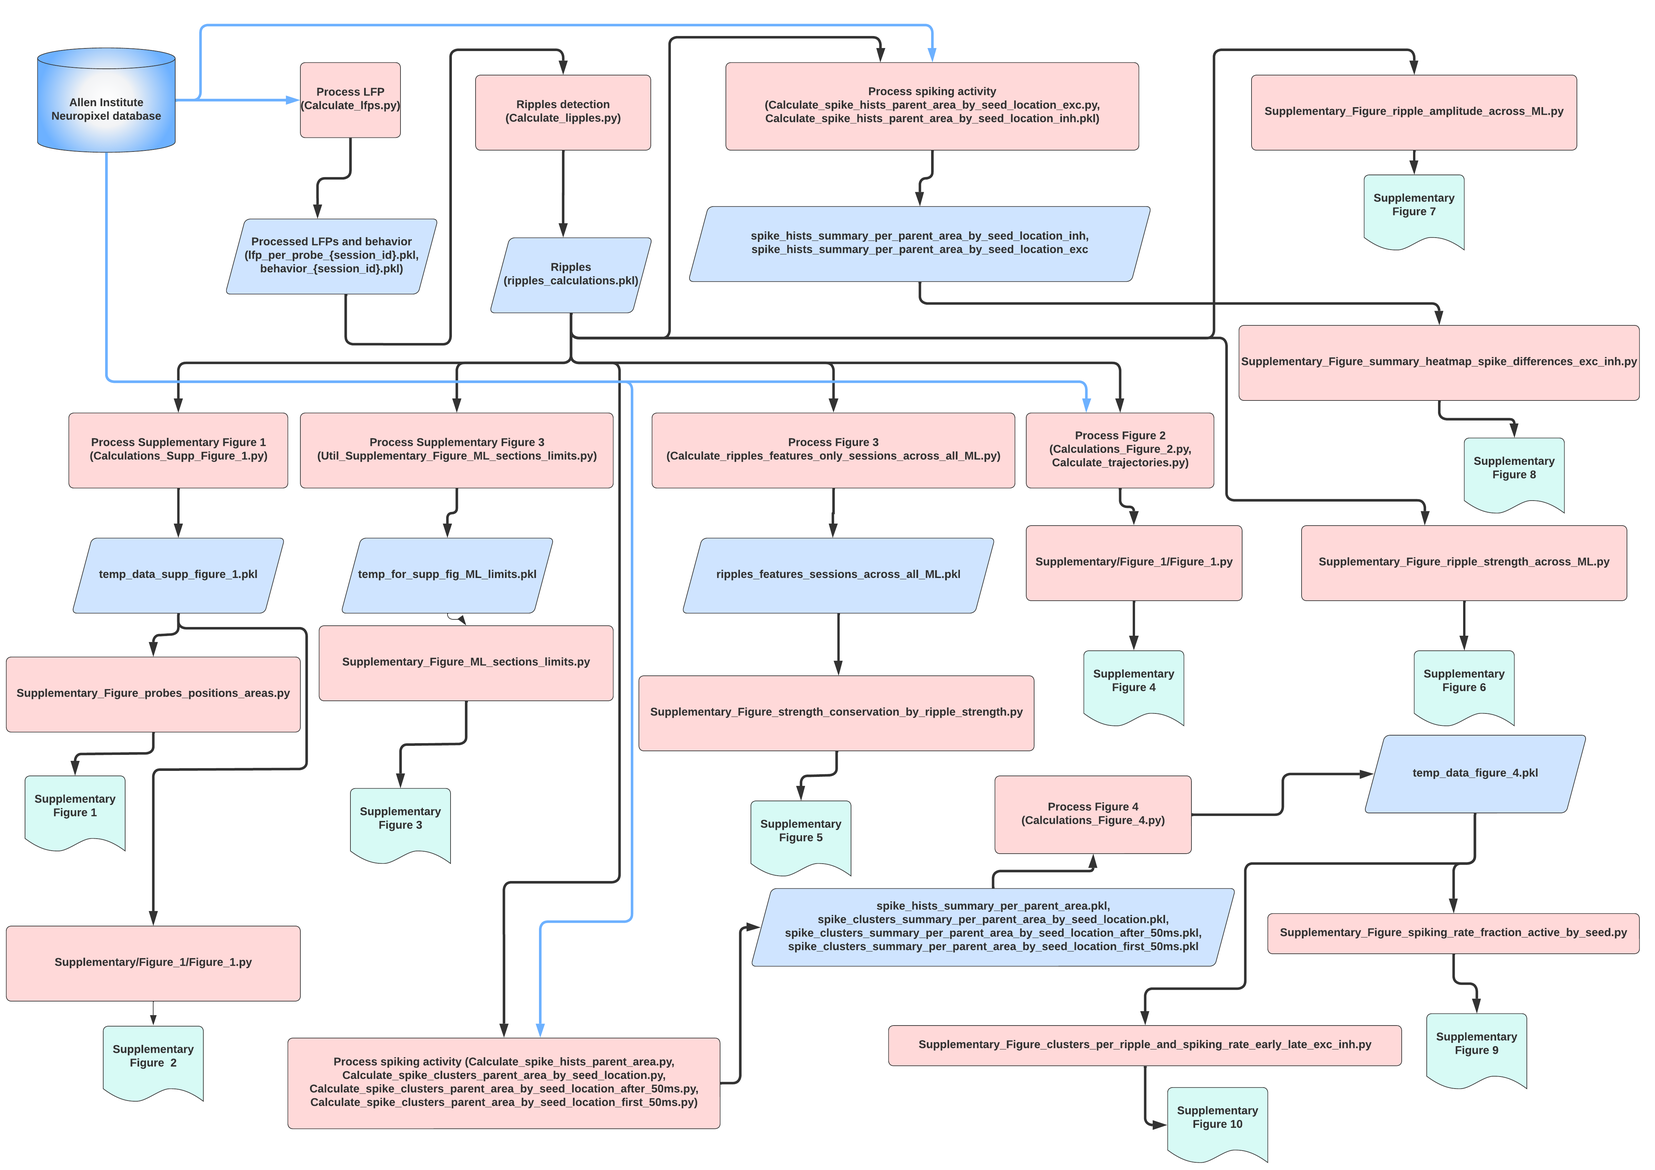
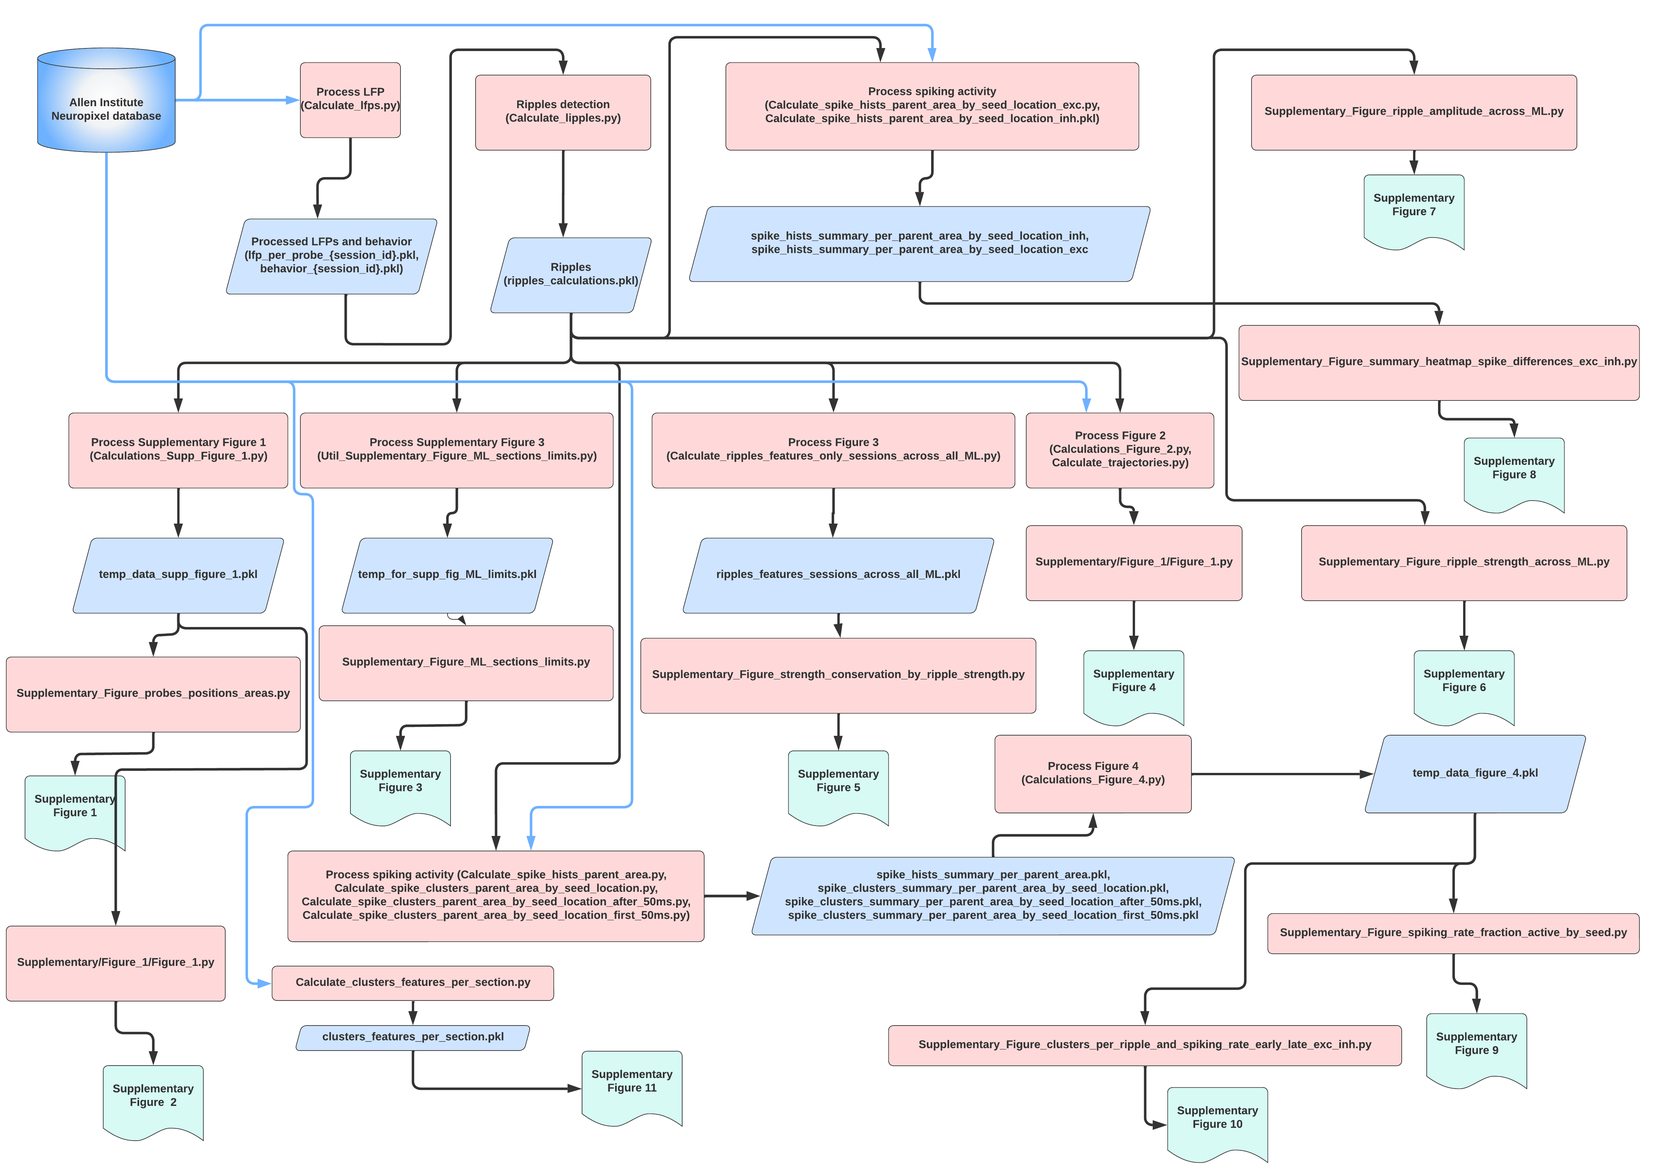
squash

Changed region(s): [[0.0311, 0.5285, 0.7453, 0.9638], [0.0621, 0.8705, 0.1242, 0.9949], [0.0621, 0.6529, 0.0932, 0.684]]

diff --git a/Figures/Supplementary/Supplementary_Figure_units_per_hippocampal_section.py b/Figures/Supplementary/Supplementary_Figure_units_per_hippocampal_section.py
@@ -1,0 +1,106 @@
+from Utils.Settings import output_folder_calculations, output_folder_supplementary, var_thr
+import dill
+import pingouin as pg
+from scipy.stats import ks_2samp
+import matplotlib.pyplot as plt
+import seaborn as sns
+from Utils.Style import palette_ML
+import pylustrator
+import Utils.Style
+
+with open(f'{output_folder_calculations}/clusters_features_per_section.pkl', 'rb') as f:
+    total_clusters = dill.load(f)
+
+total_units = total_clusters[(total_clusters["waveform_PT_ratio"]<5)&(total_clusters["isi_violations"]<.5)&(total_clusters["amplitude_cutoff"]<.1)&(total_clusters["presence_ratio"]>.1)]
+
+total_units = total_units.rename(columns={"waveform_duration": "Waveform duration", "firing_rate":"Firing rate", "waveform_amplitude":"Waveform amplitude",
+                                          "waveform_repolarization_slope":"Waveform repolarization slope", "waveform_recovery_slope":"Waveform recovery slope",
+                                          "waveform_PT_ratio":"Waveform PT ratio"} )
+
+def plot_distributions(ax0, ax1, param, legend):
+    print(param)
+    sns.kdeplot(ax=ax0, palette=palette_ML, data=total_units.query("Location=='Medial'| Location=='Lateral'"), x=param, hue="Location", common_norm=False)
+    sns.ecdfplot(ax=ax1,  palette=palette_ML, data=total_units.query("Location=='Medial'| Location=='Lateral'"), x=param, hue="Location")
+    norm_test = pg.normality(data=total_units, dv=param, group="Location")
+    if norm_test["normal"].all():
+        p_val = pg.ttest(total_units[total_units["Location"] == "Medial"][param],
+               total_units[total_units["Location"] == "Lateral"][param])["p-val"][0]
+        print("ttest: ", p_val)
+
+    else:
+        p_val = pg.mwu(total_units[total_units["Location"]=="Medial"][param], total_units[total_units["Location"]=="Lateral"][param])["p-val"][0]
+        cles = pg.mwu(total_units[total_units["Location"]=="Medial"][param], total_units[total_units["Location"]=="Lateral"][param])["CLES"][0]
+        print("mwu p-val and CLES: ", p_val, cles)
+
+    if p_val<.05:
+        ax0.text(.6, .7, "*",
+                    transform=ax0.transAxes,
+                    fontsize=15, ha='center', va='center');
+
+    p_val_ks = ks_2samp(total_units[total_units["Location"] == "Medial"][param],
+             total_units[total_units["Location"] == "Lateral"][param])[1]
+
+    print("ks: p_val_ks")
+    if p_val_ks<.05:
+        ax1.text(.6, .7, "*",
+                    transform=ax1.transAxes,
+                    fontsize=15, ha='center', va='center');
+
+    if legend==False:
+        ax0.get_legend().remove()
+        ax1.get_legend().remove()
+
+#pylustrator.start()
+
+fig, ax = plt.subplots(6, 2, figsize=(5,8))
+param="Waveform duration"
+ax0 = ax[0,0]
+ax1 = ax[0,1]
+legend = True
+plot_distributions(ax0, ax1, param, legend)
+param="Firing rate"
+ax0 = ax[1,0]
+ax1 = ax[1,1]
+legend = False
+plot_distributions(ax0, ax1, param, legend)
+param="Waveform amplitude"
+ax0 = ax[2,0]
+ax1 = ax[2,1]
+plot_distributions(ax0, ax1, param, legend)
+param="Waveform repolarization slope"
+ax0 = ax[3,0]
+ax1 = ax[3,1]
+plot_distributions(ax0, ax1, param, legend)
+param="Waveform recovery slope"
+ax0 = ax[4,0]
+ax1 = ax[4,1]
+plot_distributions(ax0, ax1, param, legend)
+ax[4,0].set_xlim(-.5,.1)
+ax[4,1].set_xlim(-.5,.1)
+param="Waveform PT ratio"
+ax0 = ax[5,0]
+ax1 = ax[5,1]
+plot_distributions(ax0, ax1, param, legend)
+ax[5,0].set_xlim(0,1)
+ax[5,1].set_xlim(0,1)
+
+fig.tight_layout()
+
+#% start: automatic generated code from pylustrator
+plt.figure(1).ax_dict = {ax.get_label(): ax for ax in plt.figure(1).axes}
+import matplotlib as mpl
+plt.figure(1).text(0.5, 0.5, 'New Text', transform=plt.figure(1).transFigure)  # id=plt.figure(1).texts[0].new
+plt.figure(1).texts[0].set_position([0.036000, 0.981250])
+plt.figure(1).texts[0].set_text("A")
+plt.figure(1).texts[0].set_weight("bold")
+plt.figure(1).text(0.5, 0.5, 'New Text', transform=plt.figure(1).transFigure)  # id=plt.figure(1).texts[1].new
+plt.figure(1).texts[1].set_position([0.512000, 0.981250])
+plt.figure(1).texts[1].set_text("B")
+plt.figure(1).texts[1].set_weight("bold")
+#% end: automatic generated code from pylustrator
+
+#plt.show()
+plt.savefig(f"{output_folder_supplementary}/Supplementary_Figure_11", dpi=300)
+
+
+

diff --git a/Utils/Legends_supplementary_variables.py b/Utils/Legends_supplementary_variables.py
@@ -2,6 +2,7 @@ from Utils.Settings import output_folder_figures_calculations, output_folder_cal
 import pandas as pd
 import dill
 import pingouin as pg
+from scipy.stats import ks_2samp
 
 # variables supplementary figure 1
 with open(f"{output_folder_figures_calculations}/temp_data_supp_figure_1.pkl", 'rb') as f:
@@ -48,3 +49,61 @@ data_sup_9_spiking_rate = pd.melt(tot_summary[["Lateral seed", "Medial seed", "S
                value_name='Spiking rate per 10 ms').groupby(["Session id", "Location seed"]).mean().reset_index()
 
 from Figures.Supplementary.Supplementary_Figure_spiking_rate_fraction_active_by_seed import ttest_clus_per_ripple, ttest_late_spiking
+
+
+with open(f'{output_folder_calculations}/clusters_features_per_section.pkl', 'rb') as f:
+    total_clusters = dill.load(f)
+
+total_units = total_clusters[(total_clusters["waveform_PT_ratio"]<5)&(total_clusters["isi_violations"]<.5)&(total_clusters["amplitude_cutoff"]<.1)&(total_clusters["presence_ratio"]>.1)]
+
+
+
+param="waveform_duration"
+p_val_wav_dur = pg.mwu(total_units[total_units["Location"] == "Medial"][param],
+       total_units[total_units["Location"] == "Lateral"][param])["p-val"][0]
+
+param="waveform_recovery_slope"
+p_val_wav_rec_slope = pg.mwu(total_units[total_units["Location"] == "Medial"][param],
+       total_units[total_units["Location"] == "Lateral"][param])["p-val"][0]
+
+param="waveform_PT_ratio"
+p_val_wav_PT_ratio = pg.mwu(total_units[total_units["Location"] == "Medial"][param],
+       total_units[total_units["Location"] == "Lateral"][param])["p-val"][0]
+
+param="waveform_repolarization_slope"
+p_val_wav_repolarization_slope = pg.mwu(total_units[total_units["Location"] == "Medial"][param],
+       total_units[total_units["Location"] == "Lateral"][param])["p-val"][0]
+
+param="waveform_amplitude"
+p_val_wav_amp = pg.mwu(total_units[total_units["Location"] == "Medial"][param],
+       total_units[total_units["Location"] == "Lateral"][param])["p-val"][0]
+
+param="firing_rate"
+p_val_fir_rate = pg.mwu(total_units[total_units["Location"] == "Medial"][param],
+       total_units[total_units["Location"] == "Lateral"][param])["p-val"][0]
+
+
+
+param="waveform_duration"
+p_val_ks_wav_dur = ks_2samp(total_units[total_units["Location"] == "Medial"][param],
+             total_units[total_units["Location"] == "Lateral"][param])[1]
+
+param="waveform_recovery_slope"
+p_val_ks_wav_rec_slope = ks_2samp(total_units[total_units["Location"] == "Medial"][param],
+             total_units[total_units["Location"] == "Lateral"][param])[1]
+
+param="waveform_PT_ratio"
+p_val_ks_wav_PT_ratio = ks_2samp(total_units[total_units["Location"] == "Medial"][param],
+             total_units[total_units["Location"] == "Lateral"][param])[1]
+
+param="waveform_repolarization_slope"
+p_val_ks_wav_repolarization_slope = ks_2samp(total_units[total_units["Location"] == "Medial"][param],
+             total_units[total_units["Location"] == "Lateral"][param])[1]
+
+param="waveform_amplitude"
+p_val_ks_wav_amp = ks_2samp(total_units[total_units["Location"] == "Medial"][param],
+             total_units[total_units["Location"] == "Lateral"][param])[1]
+
+param="firing_rate"
+p_val_ks_fir_rate = ks_2samp(total_units[total_units["Location"] == "Medial"][param],
+             total_units[total_units["Location"] == "Lateral"][param])[1]

diff --git a/Utils/Results_variables.py b/Utils/Results_variables.py
@@ -178,3 +178,54 @@ ripples_number_by_section[ripples_number_by_section.index==ripples_number_by_sec
 
 p_value_ripples_per_section = pg.kruskal(ripples_number_by_section[ripples_number_by_section.index==ripples_number_by_section["Reference"]],
                                          dv="Count detected ripples", between="Reference")["p-unc"]
+
+
+
+with open(f'{output_folder_calculations}/clusters_features_per_section.pkl', 'rb') as f:
+    total_clusters = dill.load(f)
+
+total_units = total_clusters[(total_clusters["waveform_PT_ratio"]<5)&(total_clusters["isi_violations"]<.5)&(total_clusters["amplitude_cutoff"]<.1)&(total_clusters["presence_ratio"]>.1)]
+
+def count_clusters(group):
+    _ = pd.Series([group.query("Location=='Medial'").shape[0] / group.query("Location=='Medial'")["probe_id"].unique().shape[0],
+                      group.query("Location=='Lateral'").shape[0] /
+                      group.query("Location=='Lateral'")["probe_id"].unique().shape[0]])
+    _.index=["Medial", "Lateral"]
+    return _
+
+normalized_cluster_count_per_probe = total_clusters.query("Location=='Medial'| Location=='Lateral'").groupby("session_id").apply(lambda group: count_clusters(group))
+pg.normality(normalized_cluster_count_per_probe)
+test_cluster_count = pg.mwu(normalized_cluster_count_per_probe["Medial"], normalized_cluster_count_per_probe["Lateral"])["p-val"][0]
+
+def check_waveform_duration(group):
+    _ = pd.Series([group.query("Location=='Medial'")["waveform_duration"].mean(),
+                      group.query("Location=='Lateral'")["waveform_duration"].mean() ])
+    _.index=["Medial", "Lateral"]
+    return _
+
+waveform_duration_per_session = total_units.query("Location=='Medial'| Location=='Lateral'").groupby("session_id").apply(lambda group: check_waveform_duration(group))
+waveform_duration_per_session.mean()
+waveform_duration_per_session.sem()
+pg.normality(waveform_duration_per_session)
+pg.ttest(waveform_duration_per_session["Medial"], waveform_duration_per_session["Lateral"])
+
+def count_clusters_type(group):
+    _ = pd.Series([group[(group["Location"] == "Medial") & (group["Neuron type"]=="Putative exc")].shape[0] /\
+                   group[(group["Location"] == "Medial") & (group["Neuron type"] == "Putative inh")].shape[0],
+                   group[(group["Location"] == "Lateral") & (group["Neuron type"] == "Putative exc")].shape[0] /\
+                   group[(group["Location"] == "Lateral") & (group["Neuron type"] == "Putative inh")].shape[0]
+                   ])
+    _.index=["Medial ratio (exc/inh)", "Lateral ratio (exc/inh)"]
+    return _
+
+ratio_exc_inh_per_session=total_clusters.query("Location=='Medial'| Location=='Lateral'").groupby("session_id").apply(lambda group: count_clusters_type(group))
+ratio_exc_inh_per_session.mean()
+
+
+
+for param in total_clusters.columns:
+    try:
+        _ = pg.ttest(total_units.query("Location=='Medial'")[param], total_units.query("Location=='Lateral'")[param])["p-val"][0]
+        print(param, ": ", _)
+    except:
+        pass

diff --git a/Calculations/Calculate_clusters_features_per_section.py b/Calculations/Calculate_clusters_features_per_section.py
@@ -1,0 +1,76 @@
+import dill
+import numpy as np
+import pandas as pd
+from allensdk.brain_observatory.ecephys.ecephys_project_cache import EcephysProjectCache
+from tqdm import tqdm
+from Utils.Settings import output_folder_calculations, neuropixel_dataset, var_thr
+from Utils.Utils import acronym_to_main_area
+
+manifest_path = f"{neuropixel_dataset}/manifest.json"
+
+cache = EcephysProjectCache.from_warehouse(manifest=manifest_path)
+
+sessions = cache.get_session_table()
+
+with open(f'{output_folder_calculations}/clean_ripples_calculations.pkl', 'rb') as f:
+    ripples_calcs = dill.load(f)
+
+
+input_rip = []
+for session_id in ripples_calcs.keys():
+    ripples = ripples_calcs[session_id][3].copy()
+    ripples = ripples.groupby("Probe number-area").filter(lambda group: group["∫Ripple"].var() > var_thr)
+    input_rip.append(ripples.groupby("Probe number-area").mean()["L-R (µm)"])
+
+lr_space = pd.concat(input_rip)
+
+medial_lim = lr_space.quantile(.33333)
+lateral_lim = lr_space.quantile(.666666)
+center = lr_space.median()
+medial_lim_lm = medial_lim - 5691.510009765625
+lateral_lim_lm = lateral_lim - 5691.510009765625
+center_lm = center - 5691.510009765625
+
+out = []
+for session_id in tqdm(ripples_calcs.keys()):
+    ripples = ripples_calcs[session_id][3].copy()
+
+    sel_probe = ripples_calcs[session_id][5]
+
+    if ripples[ripples['Probe number'] == sel_probe].shape[0] < 1000:
+        continue
+
+    if np.any(ripples["L-R (µm)"].unique() < medial_lim) & np.any(ripples["L-R (µm)"].unique() > lateral_lim):
+        print(sum(ripples["L-R (µm)"].unique() < medial_lim), sum(ripples["L-R (µm)"].unique() > lateral_lim))
+        session = cache.get_session_data(session_id,  amplitude_cutoff_maximum = np.inf, presence_ratio_minimum = -np.inf, isi_violations_maximum = np.inf)  # , amplitude_cutoff_maximum = np.inf, presence_ratio_minimum = -np.inf, isi_violations_maximum = np.inf)
+
+        units = session.units
+        units["parent area"] = units["ecephys_structure_acronym"].apply(lambda area: acronym_to_main_area(area))
+        units["session_id"] = session_id
+        out.append(units[units["parent area"]=="HPF"])
+
+
+total_units = pd.concat(out)
+
+def l_r_classifier(row):
+    if row["left_right_ccf_coordinate"] < medial_lim:
+        v = "Medial"
+    elif row["left_right_ccf_coordinate"] > lateral_lim:
+        v = "Lateral"
+    else:
+        v = "Central"
+    return v
+
+total_units["Location"] = total_units.apply(l_r_classifier, axis=1)
+
+def neuron_classifier(row):
+    if row["waveform_duration"] < .4:
+        v = "Putative inh"
+    elif row["waveform_duration"] >= .4:
+        v = "Putative exc"
+    return v
+
+total_units["Neuron type"] = total_units.apply(neuron_classifier, axis=1)
+
+with open(f"{output_folder_calculations}/clusters_features_per_section.pkl", "wb") as fp:
+    dill.dump(total_units, fp)

diff --git a/Manuscript/discussion.py b/Manuscript/discussion.py
@@ -23,9 +23,10 @@ discussion = "Our work shows for the first time that strong ripples propagates d
              "towards the septal pole retaining its strong status (top 10%). Conversely strong ripples generated in the septal pole have a sizable chance of " \
              "propagate longitudinally and still be in the top 10% in terms of ripple strength. Ripples generated in the septal pole and in the " \
              "intermediate hippocampus have a significantly different ability of engaging the hippocampal networks in the 50-120 ms window " \
-             "post ripple start, ripples generated in the septal pole engage more neurons, both excitatory and inhibitory, and, moreover, " \
+             "post ripple start, ripples generated in the septal pole activate more neurons, both excitatory and inhibitory, and, moreover, " \
              "can elicit an higher spiking rate per neuron. This is reflected by the fact that the position on the longitudinal axis explains " \
-             f"{r_common*100}% and {r_strong*100}% of the variability in ripple duration in common and strong ripples respectively." \
+             f"{r_common*100}% and {r_strong*100}% of the variability in ripple duration in common and strong ripples respectively. Consistenly, the" \
+             "temporal hippocampus has been shown to produce shorter ripples booth in awake and sleep {Sosa, 2020 #1154}." \
              "Long duration ripples has been shown to be of particular importance in situations of " \
              "high-memory demand {Fernández-Ruiz, 2019 #1121}, previous studies highlighted " \
              "the role of septal hippocampus in memory tasks and information processing {Hock, 1998 #1122;Moser, 1993 #1123;Moser, 1995 #1124;Steffenach, 2005 #1128;" \
@@ -33,5 +34,5 @@ discussion = "Our work shows for the first time that strong ripples propagates d
              "Ripple generation seems to be homogeneous across the hippocampal longitudinal axis {Patel, 2013 #1133}. " \
              "Our results can explain the specific role of septal hippocampus in memory tasks with its ability of generating particularly long" \
              "ripples that are able to strongly engage networks in the entire top half of the hippocampal formation for an extended time. What " \
-             "is the reason that enables the septal pole to generate longer ripples? We can speculate that the different input connectivity might play a role. " \
+             "is the reason that enables the septal pole to generate longer ripples? We can speculate that the different neuromodulatory input might play a role. " \
              ""

diff --git a/Calculations/Calculations_Figure_4.py b/Calculations/Calculations_Figure_4.py
@@ -6,7 +6,7 @@ from allensdk.brain_observatory.ecephys.ecephys_project_cache import EcephysProj
 from scipy.stats import zscore
 from sklearn.preprocessing import MinMaxScaler
 from Utils.Settings import var_thr, neuropixel_dataset, output_folder_figures_calculations, output_folder_calculations, \
-    output_folder_processed_lfps, root_github_repo
+    output_folder_processed_lfps, root_github_repo, waveform_dur_thr
 from Utils.Utils import find_ripples_clusters_new, get_ML_limits
 from Utils.Utils import spike_summary, clean_ripples_calculations, acronym_to_main_area
 from tqdm import tqdm
@@ -29,7 +29,7 @@ def consolidate_spiking(spike_clusters, kind):
         cluster_id = [q[0] for q in spike_clusters[(session_id, 'HPF', 'central')][1][0]]
 
         spiking_rate_table_medial_seed = pd.DataFrame(spike_rate, columns=pd.MultiIndex.from_arrays(
-            [(units.loc[cluster_id, "waveform_duration"] < .4).map(
+            [(units.loc[cluster_id, "waveform_duration"] < waveform_dur_thr).map(
             {False: "Putative exc", True: "Putative inh"}), cluster_id], names=["Neuron type", "Cluster id"]))
 
         spiking_rate_table_medial_seed = spiking_rate_table_medial_seed.loc[:,
@@ -42,7 +42,7 @@ def consolidate_spiking(spike_clusters, kind):
         cluster_id = [q[0] for q in spike_clusters[(session_id, 'HPF', 'central')][2][0]]
 
         spiking_rate_table_lateral_seed = pd.DataFrame(spike_rate, columns=pd.MultiIndex.from_arrays(
-            [(units.loc[cluster_id, "waveform_duration"] < .4).map(
+            [(units.loc[cluster_id, "waveform_duration"] < waveform_dur_thr).map(
             {False: "Putative exc", True: "Putative inh"}), cluster_id], names=["Neuron type", "Cluster id"]))
         spiking_rate_table_lateral_seed = spiking_rate_table_lateral_seed.loc[:,
                                           (spiking_rate_table_lateral_seed != 0).any(axis=0)] # delete cluster with always zero spikes

diff --git a/Figures/legends_supplementary.py b/Figures/legends_supplementary.py
@@ -67,5 +67,15 @@ legends_supplementary = {
       "(A) Average spiking rate in early (left) and late (right) phase post-ripple start grouped by ripple seed location and putative neuron identity. "
       "Asterisks mean p<0.05, ANOVA with pairwise Tukey post-hoc test. "
       "(B) Fraction of active neurons per ripple in early (left) and late (right) phase post-ripple start grouped by ripple "
-      "seed location and putative neuron identity. Asterisks mean p < 0.05, ANOVA with pairwise Tukey post-hoc test."
+      "seed location and putative neuron identity. Asterisks mean p < 0.05, ANOVA with pairwise Tukey post-hoc test.",
+
+"Supplementary Figure 11. Units features in medial and lateral sections":
+      f"(A) Kernel density estimate plot of waveform duration (p-value={'{:.2e}'.format(p_val_wav_dur)}), firing rate (p-value={'{:.2e}'.format(p_val_fir_rate)}), "
+      f"waveform amplitude (p-value={'{:.2e}'.format(p_val_wav_amp)}), waveform repolarization slope (p-value={'{:.2e}'.format(p_val_wav_repolarization_slope)}), "
+      f"waveform recovery slope (p-value={'{:.2e}'.format(p_val_wav_rec_slope)}) and waveform peak-through ratio (p-value={'{:.2e}'.format(p_val_wav_PT_ratio)}) grouped by hippocampal section."
+      "Asterisks mean p<0.05, Mann-Whitney U test. "
+      f"(B) Cumulative distribution plot of waveform duration (p-value={'{:.2e}'.format(p_val_ks_wav_dur)}), firing rate (p-value={'{:.2e}'.format(p_val_ks_fir_rate)}), "
+      f"waveform amplitude (p-value={'{:.2e}'.format(p_val_ks_wav_amp)}), waveform repolarization slope (p-value={'{:.2e}'.format(p_val_ks_wav_repolarization_slope)}), "
+      f"waveform recovery slope (p-value={'{:.2e}'.format(p_val_ks_wav_rec_slope)}) and waveform peak-through ratio (p-value={'{:.2e}'.format(p_val_ks_wav_PT_ratio)}) grouped by hippocampal section."
+      "Asterisks mean p < 0.05, Kolgomorov-Smirnov test."
 }

diff --git a/Manuscript/results.py b/Manuscript/results.py
@@ -123,4 +123,12 @@ results = {"Distance explains the majority of the ripple strength correlation va
             f"Dividing again the clusters into putative excitatory and inhibitory, significant differences between medial and lateral ripples "
             f"were present only in the late phase. Spiking frequency and number of engaged neurons were significant higher in medial ripples both in putative excitatory"
             f" and inhibitory clusters (Supplementary Figure 10). In summary, the prolonged spiking observed in medial ripples was caused both by an increased"
-            f" number of engaged neurons and a higher spiking rate per cell, both in putative excitatory and inhibitory neurons."}
+            f" number of engaged neurons and a higher spiking rate per cell, both in putative excitatory and inhibitory neurons. "
+            f"The disparity in network engagement can be possibly "
+            f"in part explained by electrophysiological differences across hippocampal sections (e.g. higher firing rate). "
+            f"We did not find differences in the number of firing neurons (medial = {round(normalized_cluster_count_per_probe['Medial'].mean(), 2)}, "
+            f"lateral = {round(normalized_cluster_count_per_probe['Lateral'].mean(), 2)}, p-value = {test_cluster_count}, Mann-Whitney U test)"
+            f" or firing rate (Supplementary Figure 11), "
+            f"we did, however, found differences in waveform duration, recovery slope and peak-through ratio. "
+            f"The waveform duration distribution showed a clear right shift in the lateral section, indicating longer duration."
+            f"It is unclear how these differences relate to network engagement. "}
